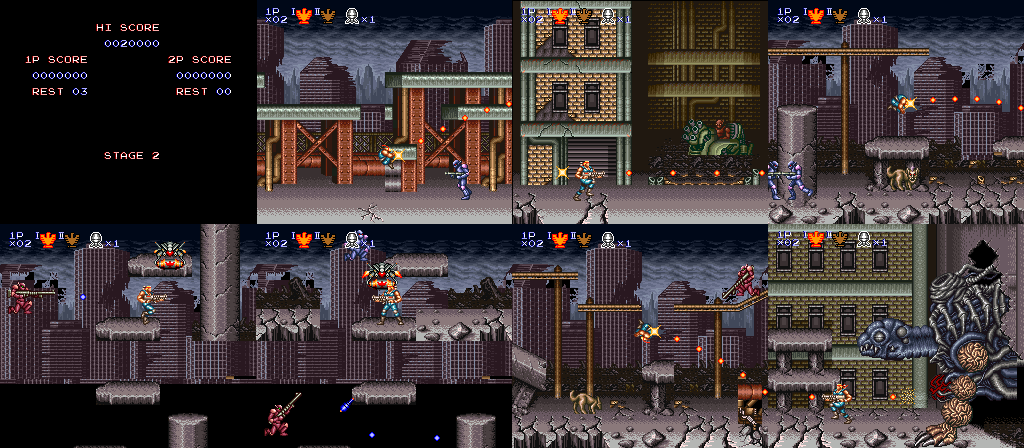
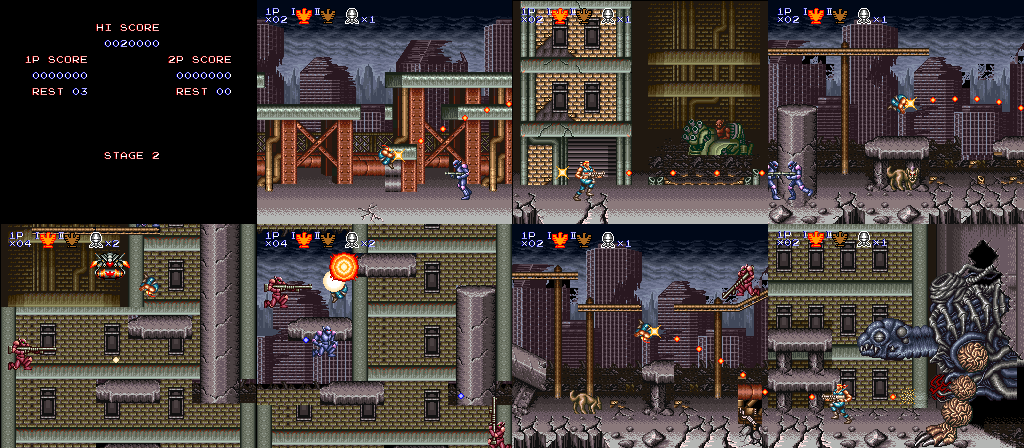
Book: Stage 2: the climb's tower, its metatiles, the page-17 slot
Claude-Session: https://claude.ai/code/session_01D9P67qDiTFLEwDi3hm62As

Changed region(s): [[0.0, 0.5, 0.5, 1.0]]

diff --git a/book/src/stage2-collapsed-tower.md b/book/src/stage2-collapsed-tower.md
@@ -29,7 +29,7 @@ Nineteen pages of BG1 (`assets/wram/extra_bg1_map.map`, page 19 is blank):
 | 0-4 | the industrial street | girder decks over the street (two levels to fight on), the cafe, pipe towers; grenade soldiers on the decks, a window sniper, pop-up turrets, alien dogs, foot soldiers from both edges (`OBJT_SOLDIER_SPAWNER`, deleted on page 4), three weapon capsules |
 | 5-7 | the mid-boss | the brick block of stage 1; flame geysers in the cracked street, then the mid-boss tank crashes down through the building (`OBJT_MIDBOSS_TANK`, its arena on page 7). Its death resumes the scroll and sets the checkpoint |
 | 8-9 | the ruins | the continue starts on page 8; the green block gives way to rubble, power lines and a broken concrete pillar to climb over; more foot soldiers, a pop-up turret |
-| 10-13 | the climb | at the end of page 9 the screen locks on page 10 and scrolls up (`bg1_scroll_mode` 2, then 3) through pages 11, 12 and 13: broken floor slabs to jump up through, two concrete pillars to climb, a power line to hang from; window snipers and grenade soldiers drop in from above, a capsule flies across. The skyline (BG2) stays behind as the tower is climbed |
+| 10-13 | the climb | at the end of page 9 the screen locks on page 10 and scrolls up (`bg1_scroll_mode` 2, then 3) through pages 11, 12 and 13: broken floor slabs to jump up through, two concrete pillars to climb, a power line to hang from; window snipers and grenade soldiers drop in from above, a capsule flies across. The climb goes up the face of the tower: its olive brick floors and windows, torn open on the way to show the dark interior and, higher up, the skyline (BG2, which stays still) through a hole |
 | 13-16 | on top | at the top of page 13 the stage scrolls right again over the fallen slabs, power poles and pillars of the ruins; grenade soldiers, dogs, a turret, a capsule |
 | 17-18 | the boss | stage 1's boss block: the turtle bursts through the wall (`OBJT_STAGE1_BOSS_CONTROLLER`, its arena on page 18); its death ends the stage |
 
@@ -59,6 +59,25 @@ page 10):
   turns right again. A fall off the bottom of the screen kills, as on
   stage 3's climbs, and as there `respawn_mode` is 4 during the climb
   (`OBJT_RESPAWN_CLAMP_TRIGGER` on page 10, back to 0 on page 13).
+- **The look of the climb.** Pages 10-13 show the tower it climbs: the
+  olive brick building of the boss's block (stage 1's pages 26-27, this
+  stage's 17-18: brick, windows, cornices and ledges, the green corner
+  pillars), so the tower climbed is the block the turtle waits in; its storeys at the
+  same 64 pixels as the slabs, so that every slab sits under a cornice like
+  a broken floor. On page 11 the facade is torn away and the dark interior
+  wall with its pipes (stage 1's metatiles `06C`-`073`) shows behind the
+  power line; on page 12 a hole goes through to the skyline, with debris
+  on its lower edge and a jagged underside above it; a storey stands broken
+  off above the roof on page 13, and the facade's crest is rubble. It is a
+  backdrop only: a slab, pillar or power-line metatile whose tiles are
+  blank (`$0260`) gets the wall's tiles there, in a new metatile (the
+  extra stage's own, from `$1A8`); every tile with a collision class is
+  the one it was, at the same place, so the collision map of the climb is
+  the same tile for tile (checked when the map was made), and the
+  characters used are all below `$391` (no class) and outside
+  `$080`-`$0FF` (replaced at the mid-boss), with no priority bit (the
+  players and the enemies stay in front). The few pixels that the slabs'
+  rounded ends leave transparent show BG2.
 - **Fairness.** Enemies come in one at a time at first, the alien dogs at
   least 1.5 pages apart (they all take the one slot `$0280`: see below),
   weapon capsules in every section (nine in the stage's lists, three more
@@ -77,7 +96,7 @@ All of it goes through the asset pipeline and the per-stage tables of
 | what | the extra stage's | reused from |
 |---|---|---|
 | BG1 map | `assets/wram/extra_bg1_map.map` (`extra_bg1_map`, in bank `$04`: `src/game/extra_stage.asm`) | arranged from stage 1's metatiles; pages 6-7 and 17-18 are stage 1's 16-17 and 26-27, the arenas the mid-boss and the boss write into (`vram_blocks_05ACDF`, the boss's wall blocks and its `TILE_WALL` column) |
-| metatiles, BG2 map | `load_list_extra_maps` | stage 1's (`stage1_bg1_metatiles`, `stage1_bg1_metatiles_2`, `stage1_bg2_metatiles`, `stage1_bg2_map`) |
+| metatiles, BG2 map | `load_list_extra_maps`; 31 metatiles of its own, `$1A8`-`$1C6` (`assets/wram/extra_bg1_metatiles.metatiles`, `extra_bg1_metatiles`, bank `$04`, decompressed to `$7E:8500` right after stage 1's second stream) | stage 1's (`stage1_bg1_metatiles`, `stage1_bg1_metatiles_2`, `stage1_bg2_metatiles`, `stage1_bg2_map`); its own are made of stage 1's characters |
 | BG and sprite tiles, start and checkpoint | `load_list_extra_vram` | stage 1's BG tiles, and the sprites stage 1 has from its page 1 on (it loads `load_list_059E62` there), so every enemy used is drawn in both halves |
 | spawn lists | `assets/stages/extra.spawns` (`spawn_pages_extra`) | pages 6, 17 and 18 use stage 1's lists of its pages 16, 26 and 27 (`spawn_list_0596CA`, `spawn_list_05979C`, `spawn_list_0597DA`: the tank, the boss and its scroll stop) |
 | start | `layout_init_extra` (bank `$00`, 4 bytes) and `layout_init_extra_far` (bank `$04`) | stage 1's set-up: the BG2 tank's HDMA and `bg2_scroll_mode` 4; from the checkpoint `bg2_scroll_mode` 5 |
@@ -118,6 +137,11 @@ on stage 1.
 - `OBJT_ALIEN_DOG` takes slot `$0280` only: two dogs close together freeze
   the game at the end of the page (found by the first play of the stage:
   `frame_counter` stopped at a page boundary).
+- Stage 1's list of page 17 (`spawn_list_05979C`) puts its two capsules
+  in slot `$0280` too, before the boss's controller: a dog still running
+  there froze the game before the boss (seen with two players, 2 of 32
+  start timings of the scripted player), so page 16 has a pop-up turret
+  where it had a dog.
 - The end of page 9 (`OBJT_SCROLL_MODES_TRIGGER` `0002` at `FE`) starts
   the climb with BG2 still; position `00` of page 13
   (`OBJT_SCROLL_MODES_TRIGGER` `0500`) turns right again, BG2 at 1/8.
@@ -126,7 +150,8 @@ on stage 1.
 
 `tests/test_extra_stage.py` plays the stage with the scripted player of
 `tools/c3emu/extra_stage.py` (run and fire, fight the arenas from the left,
-the climb by waypoints; lives, bombs and the barrier kept up as in the
+the climb by waypoints, skipping ahead when a jump of the run has already
+landed it on a higher slab; lives, bombs and the barrier kept up as in the
 plays): from its start, from its checkpoint, with two players (2 PLAYERS
 A), and from the start through a game over after the checkpoint and the
 continue. Each run must see the mid-boss, the checkpoint, the climb to
